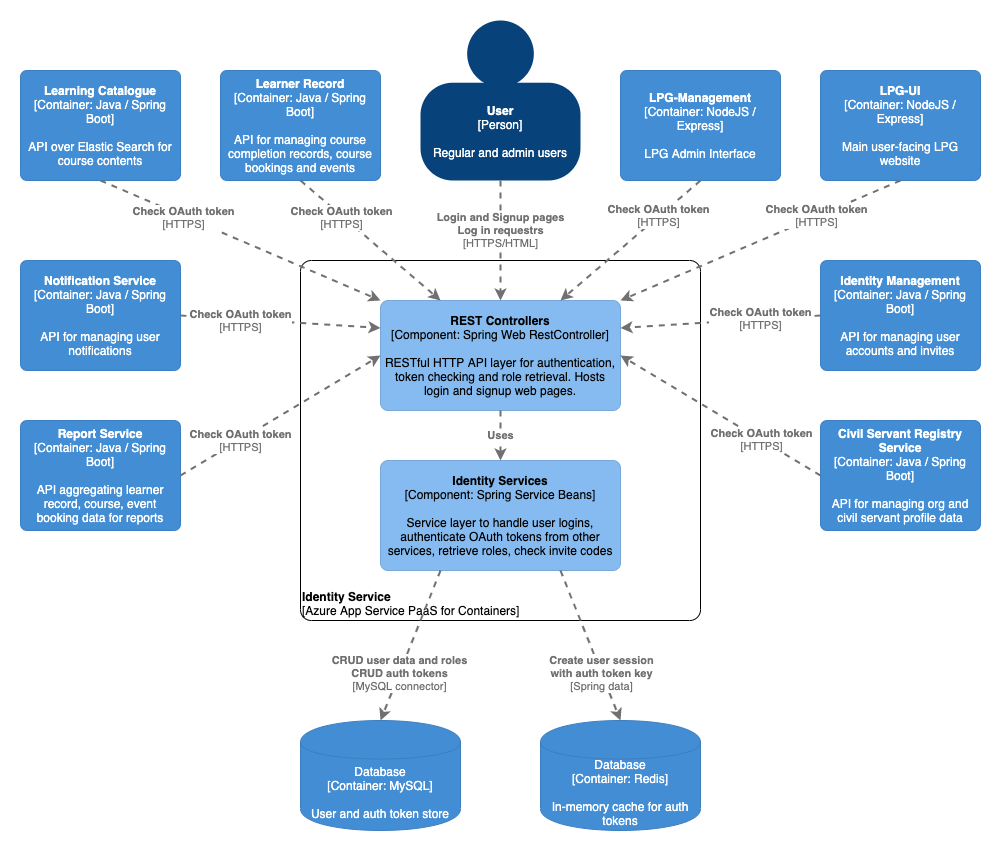
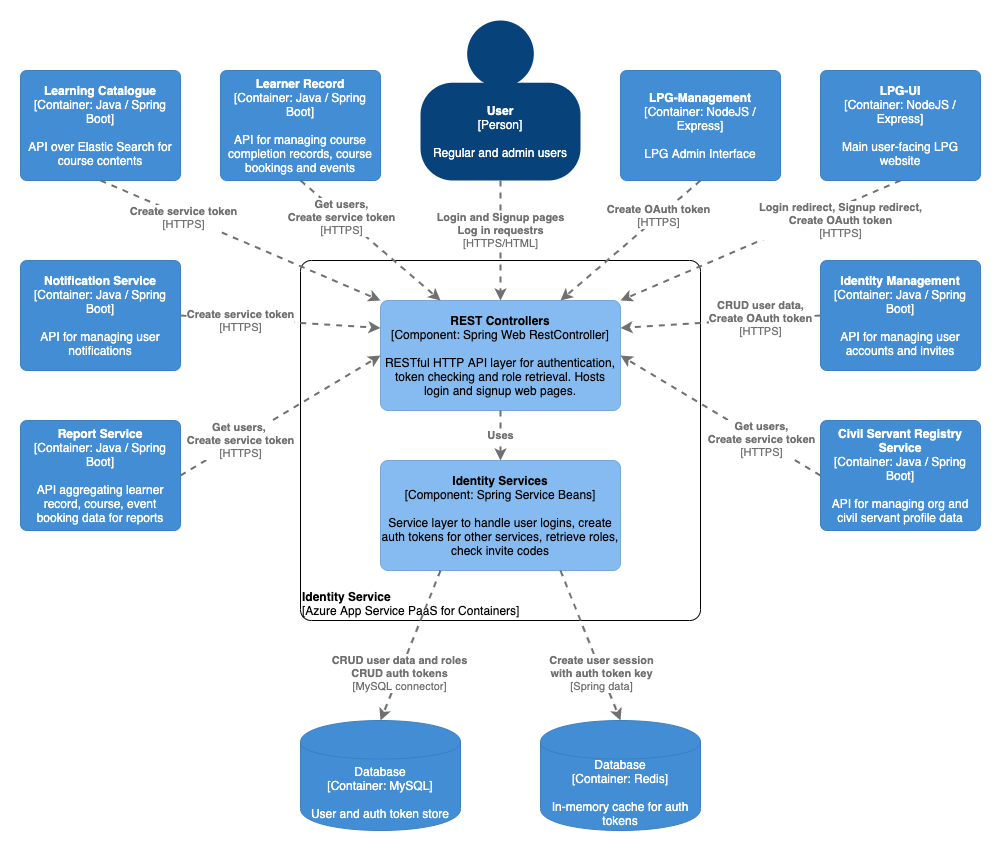
Updating readme, license and diagrams to reflect JWT changes

diff --git a/README.md b/README.md
@@ -1,6 +1,6 @@
 # Identity Service  
 ## Purpose
-The Identity Service uses [Spring Security OAuth](http://projects.spring.io/spring-security-oauth/) to utilise OAuth components. We are using with custom Details, Providers and Services in this implementation.
+The Identity Service uses [Spring Security OAuth](http://projects.spring.io/spring-security-oauth/) and [Spring Security JWT](http://projects.spring.io/spring-security-jwt/) to create and validate authentication tokens. We are using with custom Details, Providers and Services in this implementation.
 
 
 ## Component overview
@@ -18,6 +18,7 @@ For a complete list of build dependencies check the `build.gradle` file. The mai
 - Spring Boot (web, redis) 2.0 
 - Spring Data JPA 2.0
 - Spring Security OAuth2 2.3
+- Spring Security JWT 1.1
 - Spring Security (core, web, config) 5.1
 - Azure App Insights 2.5
 - GOV.UK Notify client 3.9
@@ -117,7 +118,7 @@ Significant configuration properties are highlighted here. For the full configur
 - `govNotify` GOV.UK Notify API key and template references
 - `accountValidation` password complexity regex
 - `account` configuration for max login attempts before account lockout
-- `accessToken` maximum validity for user sessions
+- `accessToken` the JWT key used to encrypt session tokens and the time of maximum validity for user sessions
 - `lpg` links back to LPG-UI for notifications and redirects
 - `spring.flyway` Spring Boot configuration including flyway db migrations path
 - `spring.datasource` connection parameters for MySQL DB
